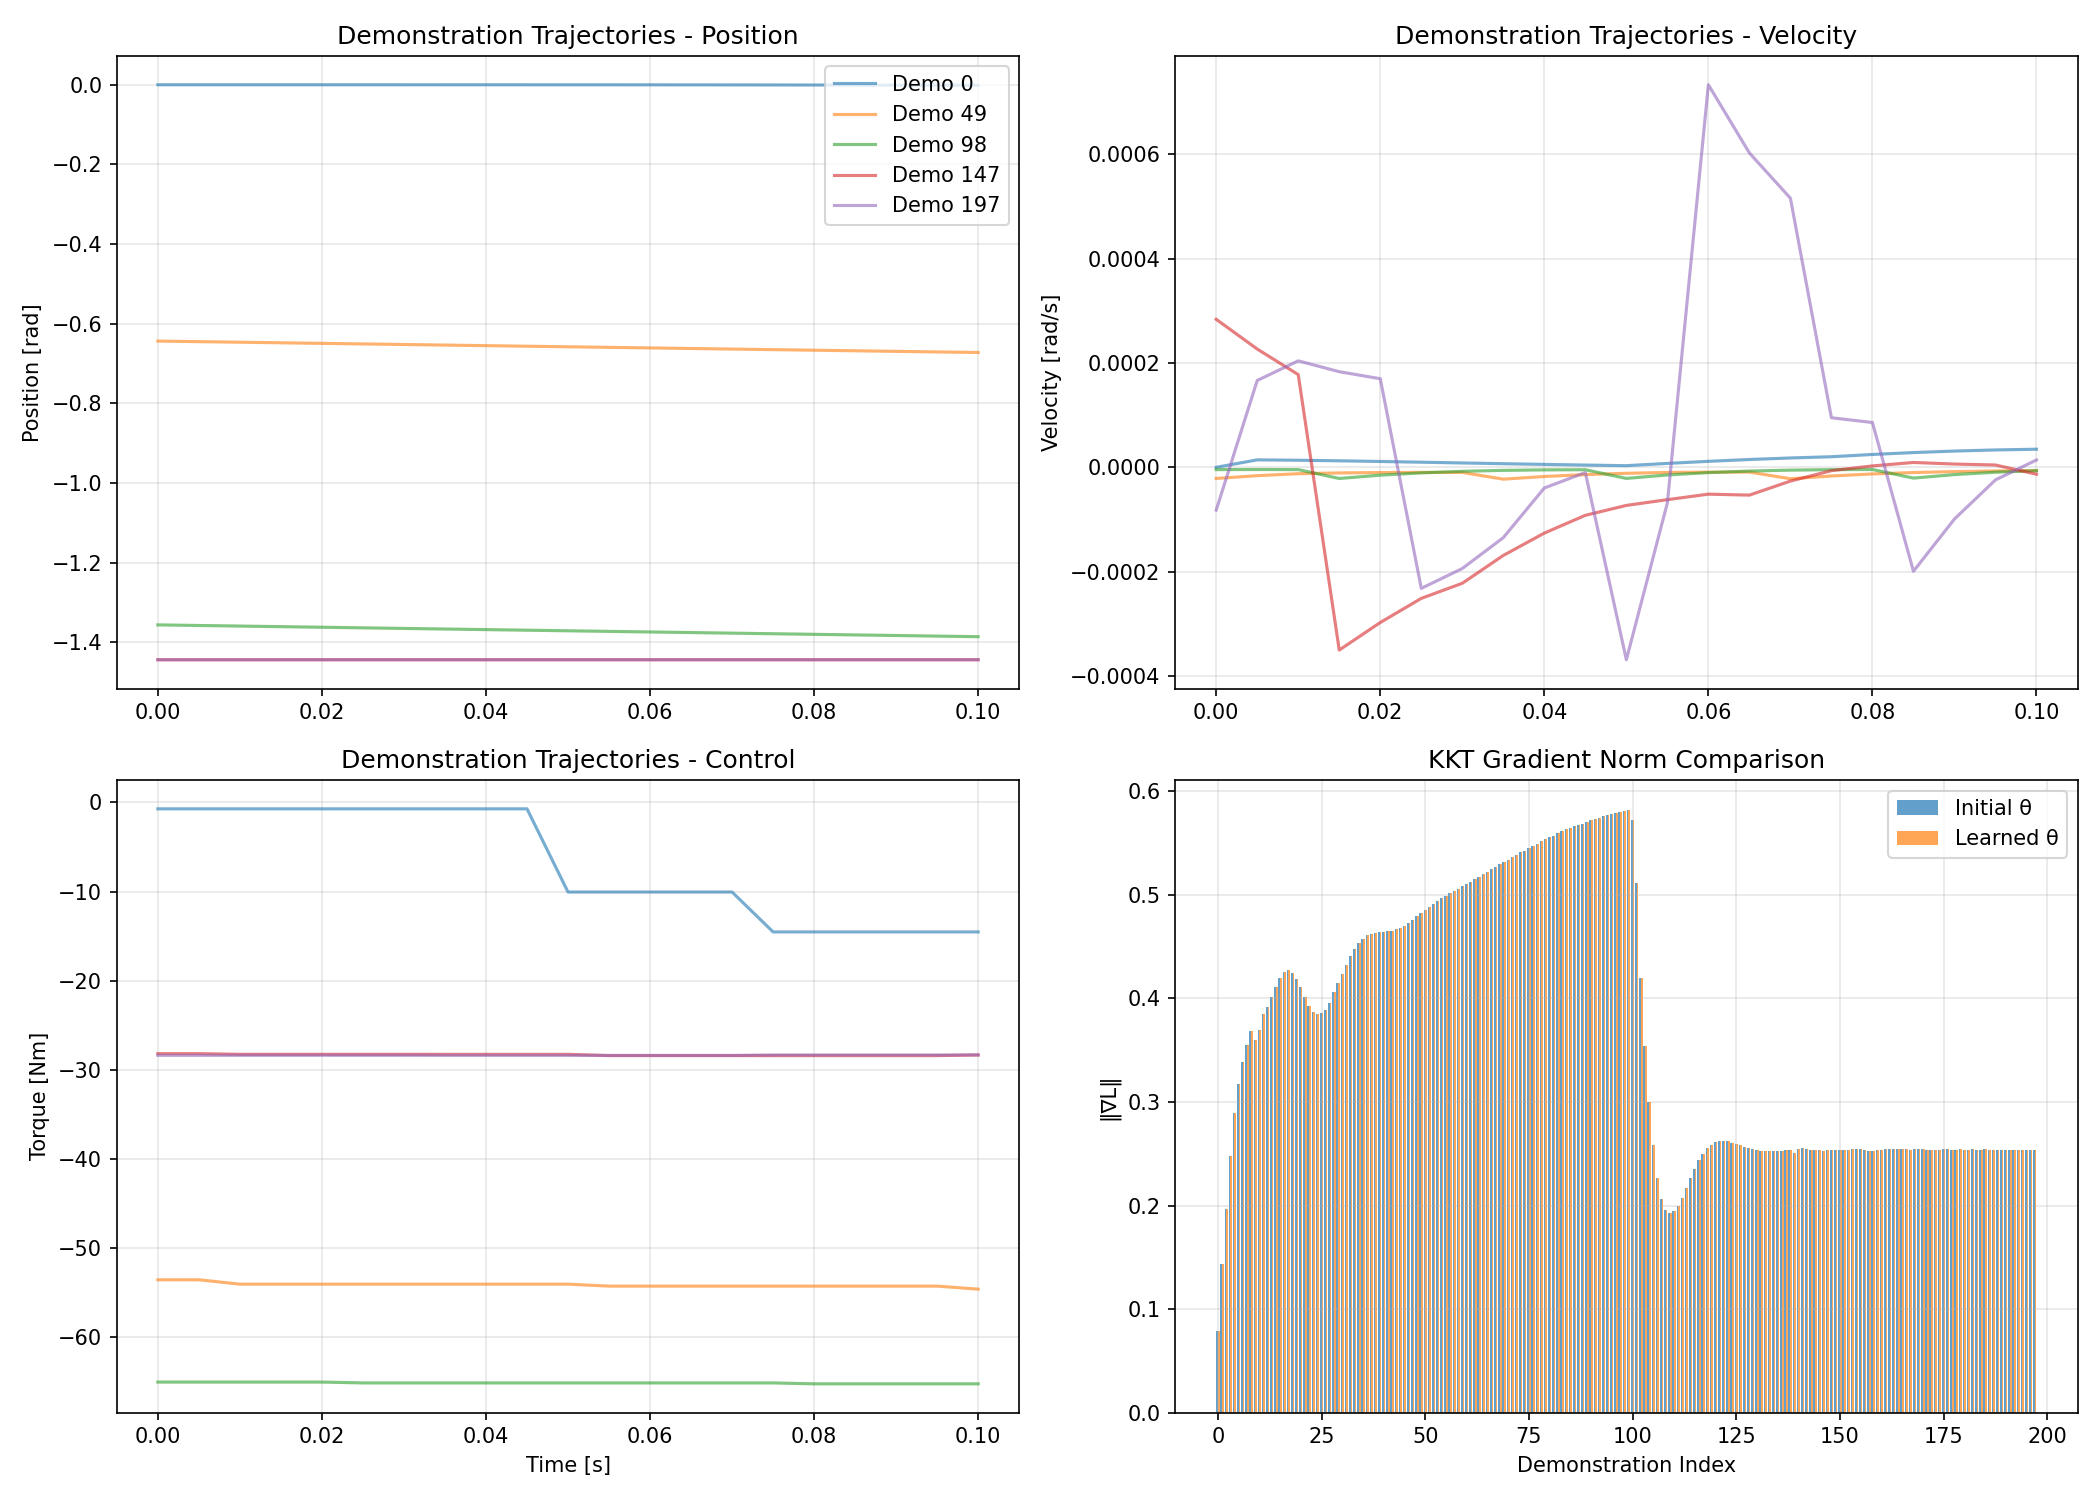
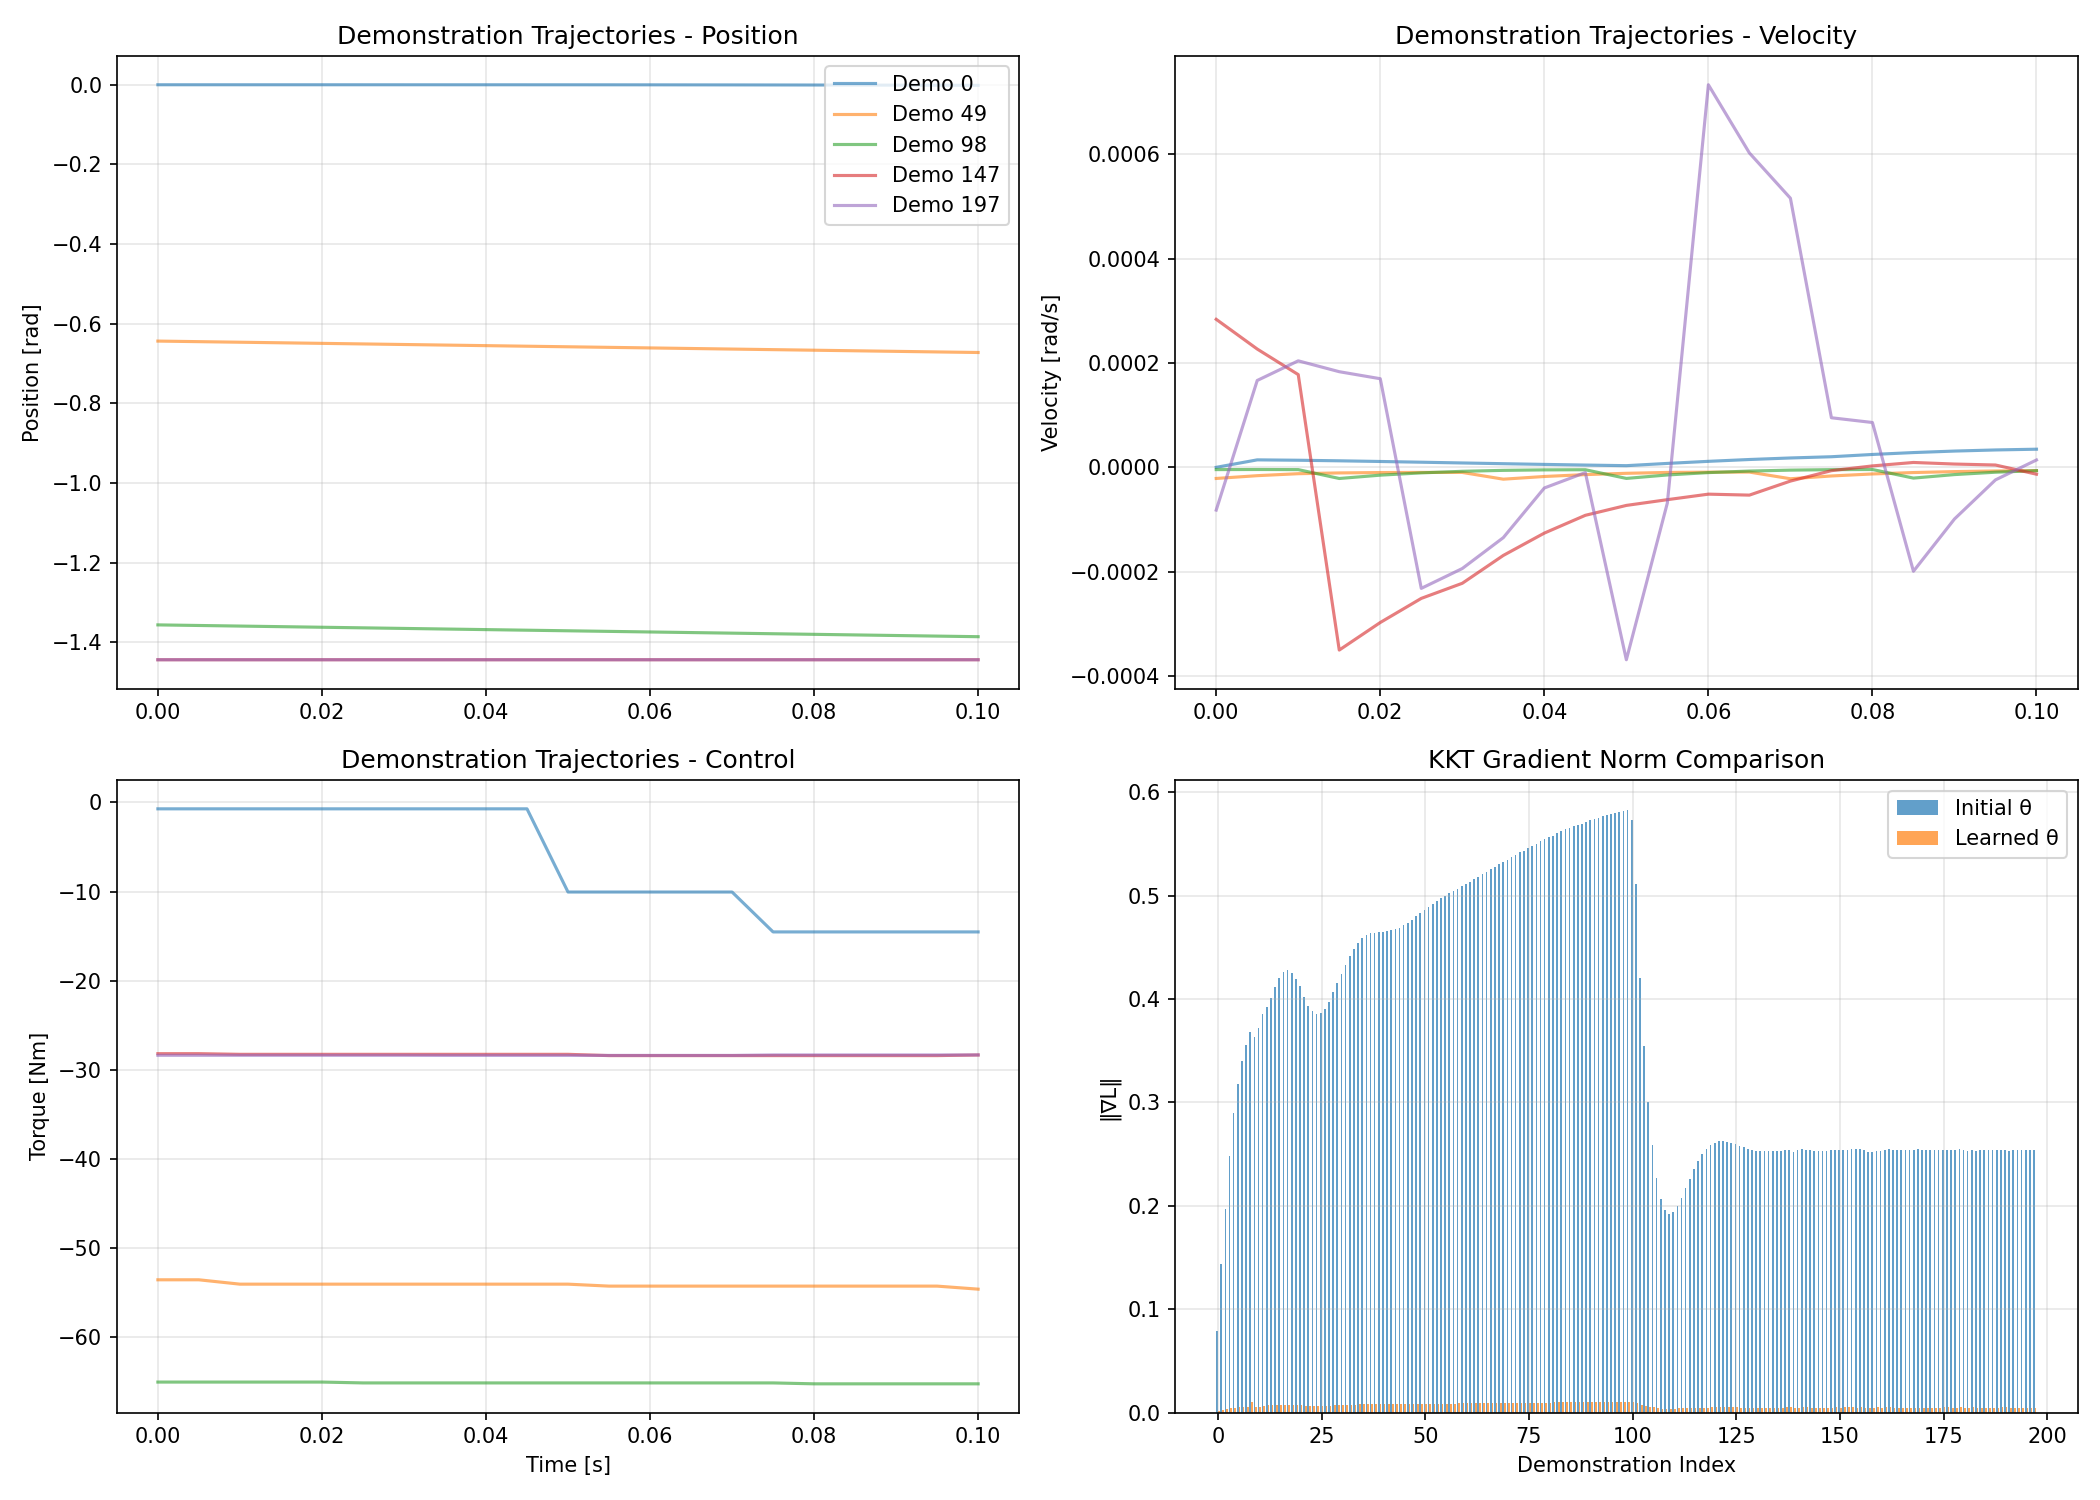
d

Changed region(s): [[0.5571, 0.552, 0.9905, 0.9507]]

diff --git a/code/learning_mpc_params/inverse_optimal_control.py b/code/learning_mpc_params/inverse_optimal_control.py
@@ -17,6 +17,7 @@ import mujoco
 from scipy.optimize import minimize, LinearConstraint
 import matplotlib.pyplot as plt
 from typing import Dict, Tuple, List
+from tqdm import tqdm
 
 
 class InverseOptimalControl:
@@ -212,7 +213,7 @@ class InverseOptimalControl:
         
         return q_next, qdot_next
     
-    def learn_cost_weights(self, demonstrations, theta_init=None):
+    def learn_cost_weights(self, demonstrations, theta_init):
         """
         시연 데이터로부터 비용함수 가중치 학습
         
@@ -253,7 +254,10 @@ class InverseOptimalControl:
             log_theta = np.clip(log_theta, -20, 20)
             theta = np.exp(log_theta)
             total_grad_norm = 0.0
-            for demo in demonstrations:
+
+            # 진행바 출력 (desc를 통해 현재 Loss 상태 표시)
+            pbar = tqdm(demonstrations, desc="Computing IOC Gradient", leave=False)
+            for demo in pbar: 
                 grad_norm_sq = self.compute_gradient_norm(theta, demo)
                 total_grad_norm += grad_norm_sq
             
@@ -284,8 +288,9 @@ class InverseOptimalControl:
             # constraints=constraints,
             options={
                 'maxiter': 100,
-                'ftol': 1e-7,
-                'disp': True
+                'ftol': 1e-4,
+                'disp': True,
+                'eps' : 1e-3
             }
         )
         

diff --git a/code/learning_mpc_params/learn_mpc_weights.py b/code/learning_mpc_params/learn_mpc_weights.py
@@ -82,24 +82,24 @@ def main():
     # 현재 config의 가중치를 초기값으로 사용
     from dataGet.config import CostWeights
     
-    theta_init = np.array([
-        CostWeights.Q_POS[0, 0],
-        CostWeights.Q_VEL[0, 0],
-        CostWeights.R_TAU[0, 0],
-        CostWeights.Q_TERMINAL[0, 0],
-        CostWeights.Q_VEL_TERMINAL[0, 0],
-        CostWeights.Q_VEL_REF[0, 0]
-        
-    ])
-
     # theta_init = np.array([
-    #     1000.0,    # Q_pos
-    #     25.0,     # Q_vel    
-    #     0.001,  # R_tau
-    #     1000.0,    # Q_terminal
-    #     25.0,     # Q_vel_terminal
-    #     10.0      # Q_vel_ref
+    #     CostWeights.Q_POS[0, 0],
+    #     CostWeights.Q_VEL[0, 0],
+    #     CostWeights.R_TAU[0, 0],
+    #     CostWeights.Q_TERMINAL[0, 0],
+    #     CostWeights.Q_VEL_TERMINAL[0, 0],
+    #     CostWeights.Q_VEL_REF[0, 0]
+        
     # ])
+
+    theta_init = np.array([
+        1000.0,    # Q_pos
+        25.0,     # Q_vel    
+        0.001,  # R_tau
+        1000.0,    # Q_terminal
+        25.0,     # Q_vel_terminal
+        10.0      # Q_vel_ref
+    ])
 
     print(f"\n📝 Initial weights from config:")
     print(f"   Q_pos: {theta_init[0]:.2f}")

diff --git a/code/learning_mpc_params/learned_weights_config.py b/code/learning_mpc_params/learned_weights_config.py
@@ -8,17 +8,17 @@
     '''MPC 비용함수 가중치 (역최적제어로 학습됨)'''
     
     # 학습된 가중치
-    Q_POS = np.eye(1) * 2000.0000
-    Q_VEL = np.eye(1) * 50.0000
-    R_TAU = np.eye(1) * 0.001000
-    Q_TERMINAL = np.eye(1) * 2500.0000
-    Q_VEL_TERMINAL = np.eye(1) * 50.0000
-    Q_VEL_REF = np.eye(1) * 10.0000
+    Q_POS = np.eye(1) * 1108.3689
+    Q_VEL = np.eye(1) * 24.8711
+    R_TAU = np.eye(1) * 0.000019
+    Q_TERMINAL = np.eye(1) * 1000.0000
+    Q_VEL_TERMINAL = np.eye(1) * 25.0000
+    Q_VEL_REF = np.eye(1) * 9.9686
     
     # 원래 가중치 (비교용)
-    Q_POS_ORIGINAL = np.eye(1) * 2000.0000
-    Q_VEL_ORIGINAL = np.eye(1) * 50.0000
+    Q_POS_ORIGINAL = np.eye(1) * 1000.0000
+    Q_VEL_ORIGINAL = np.eye(1) * 25.0000
     R_TAU_ORIGINAL = np.eye(1) * 0.001000
-    Q_TERMINAL_ORIGINAL = np.eye(1) * 2500.0000
-    Q_VEL_TERMINAL_ORIGINAL = np.eye(1) * 50.0000
+    Q_TERMINAL_ORIGINAL = np.eye(1) * 1000.0000
+    Q_VEL_TERMINAL_ORIGINAL = np.eye(1) * 25.0000
     Q_VEL_REF_ORIGINAL = np.eye(1) * 10.0000

diff --git a/code/dataGet/mpc_controller.py b/code/dataGet/mpc_controller.py
@@ -263,7 +263,7 @@ class TorqueMPC:
         # Return as-is for MuJoCo (no double bias compensation)
         return tau_opt.copy(), tau_opt.copy()
 
-    def update_cost_weights(self, Q_pos=None, Q_vel_ref=None, R_tau=None, Q_terminal=None):
+    def update_cost_weights(self, Q_pos=None, Q_vel=None, Q_vel_ref=None, R_tau=None, Q_terminal=None, Q_vel_terminal=None):
         """
         Update cost function weights
         
@@ -275,12 +275,17 @@ class TorqueMPC:
         """
         if Q_pos is not None:
             self.Q_pos = Q_pos.copy()
+        if Q_vel is not None:
+            self.Q_vel = Q_vel.copy()
         if Q_vel_ref is not None:
             self.Q_vel_ref = Q_vel_ref.copy()
         if R_tau is not None:
             self.R_tau = R_tau.copy()
         if Q_terminal is not None:
             self.Q_terminal = Q_terminal.copy()
+        if self.Q_vel_terminal is not None:
+            self.Q_vel_terminal = self.Q_vel_terminal.copy()
+        
 
     def get_config(self):
         """Return controller configuration"""
